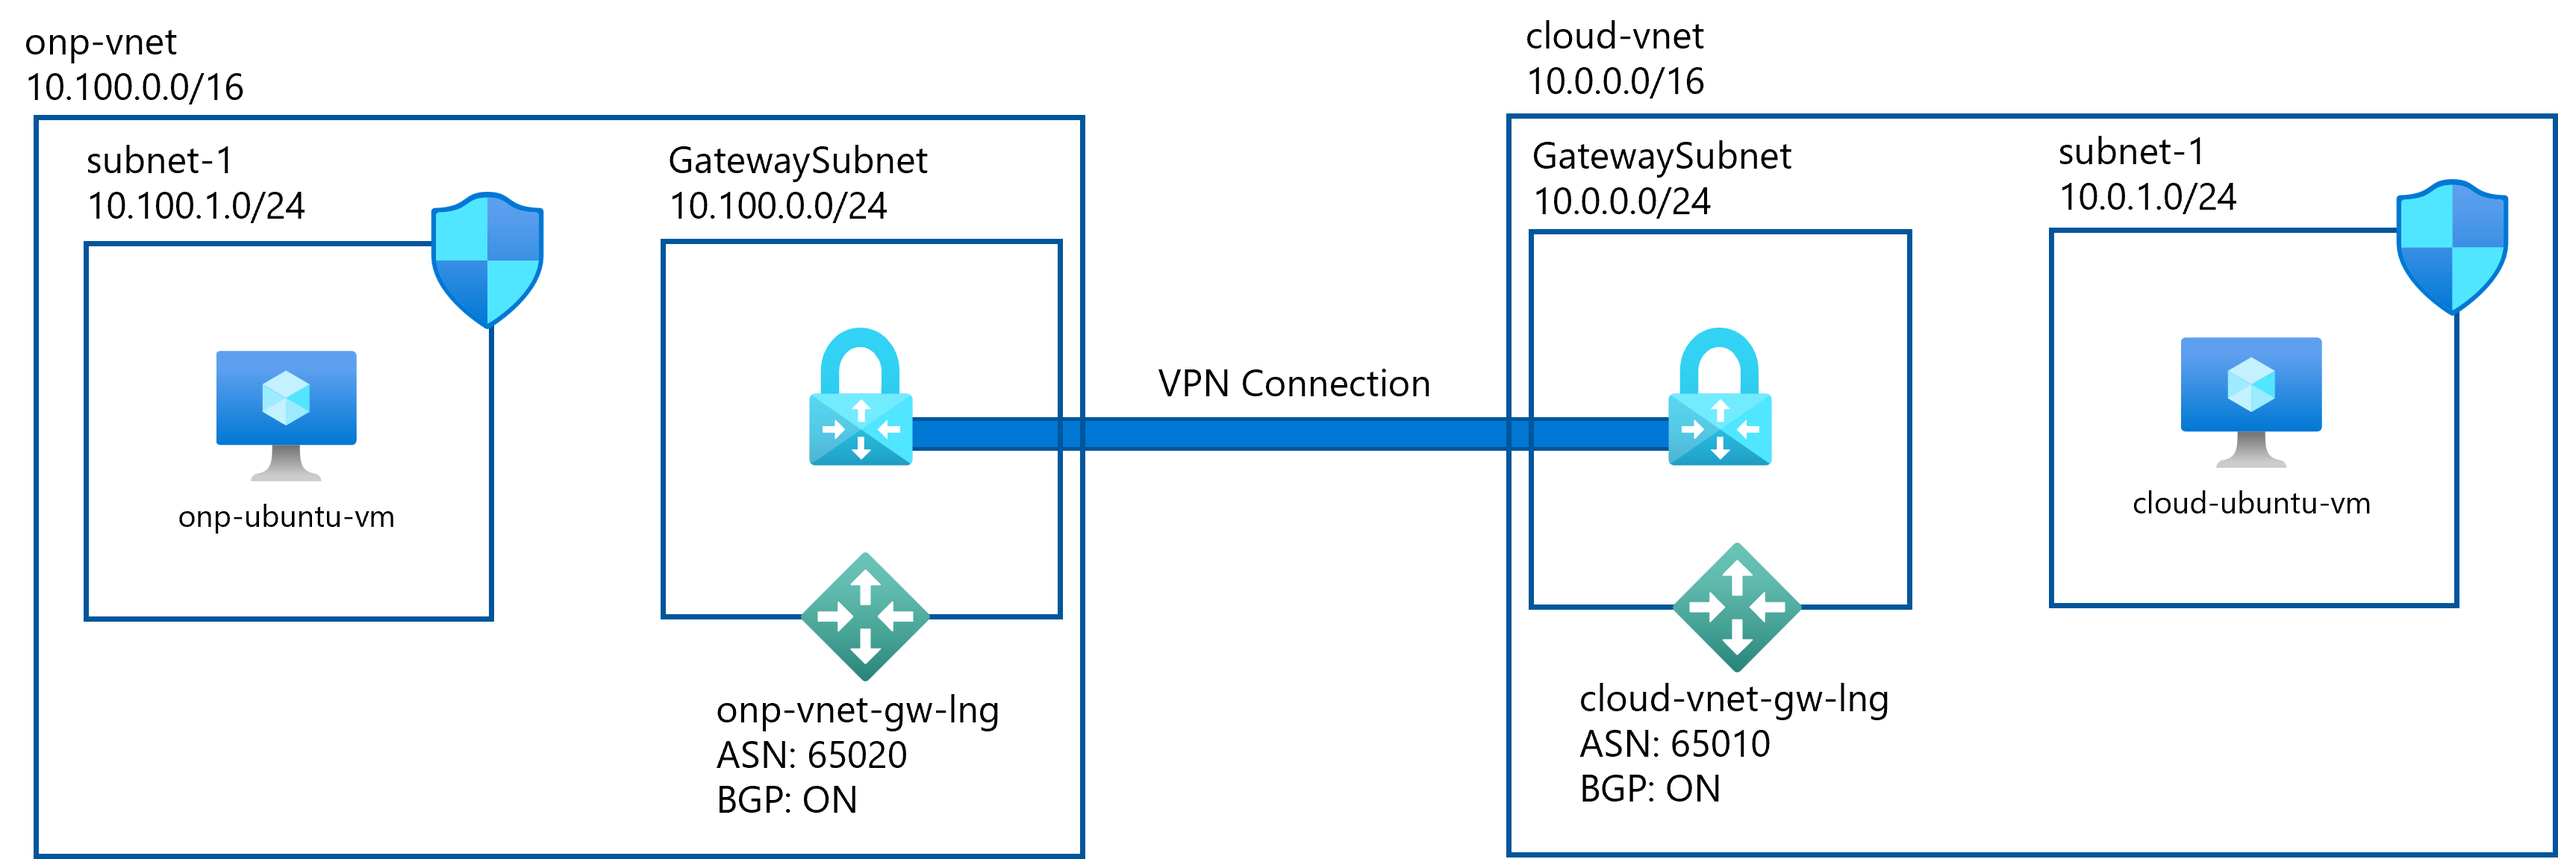
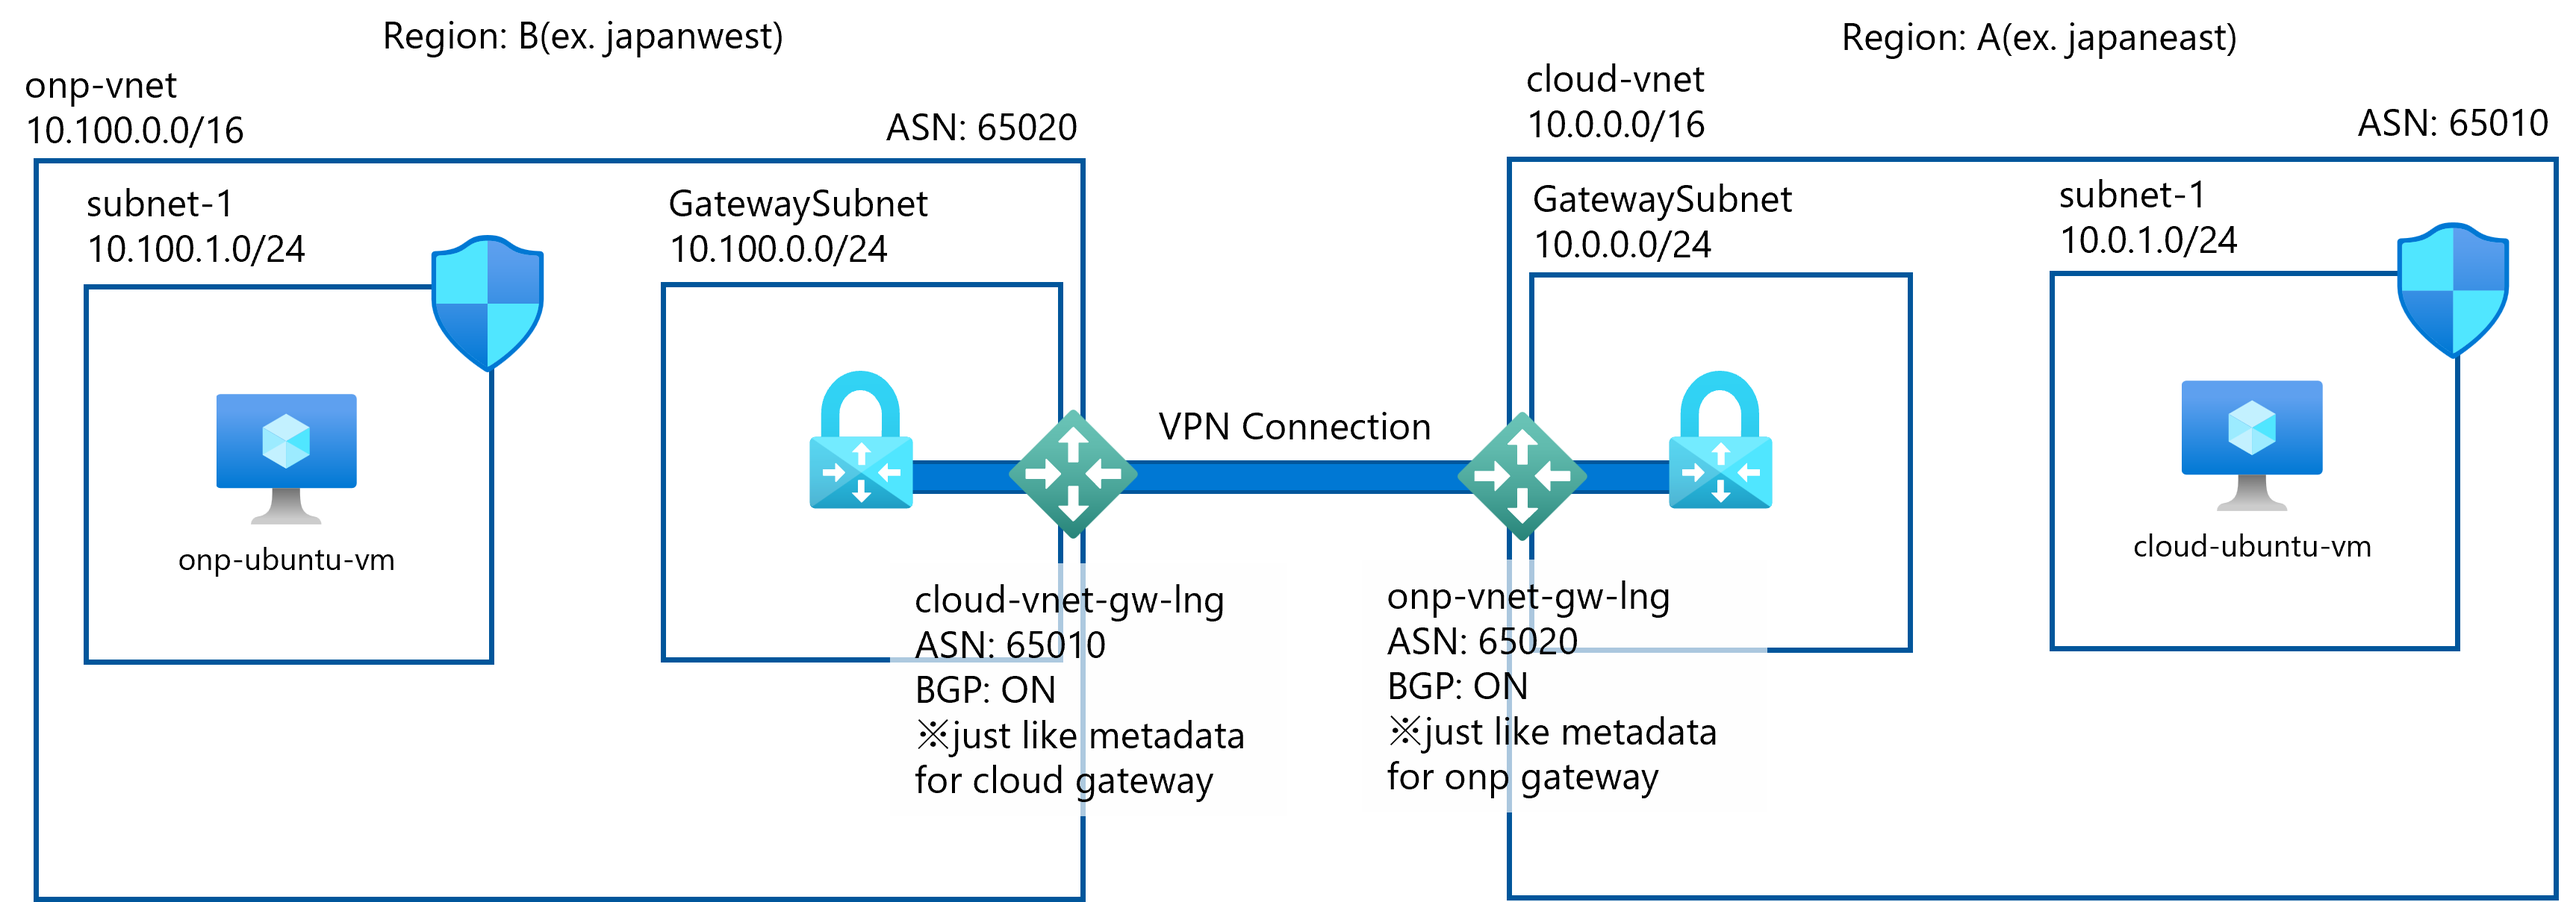
changed code to be able to choose region for onp/cloud like s2s vpn between jpe-jpw

diff --git a/README.md b/README.md
@@ -12,6 +12,7 @@ Next create the resource group for this depoloyment.
 ```
 $ az group create --name MyResourceGroup --location japaneast
 ```
+You can choose the both onp location and cloud location for testing `cross-regional S2SVPN with BGP` senario.
 
 Deploy main.bicep options:
 
@@ -28,11 +29,24 @@ This option, you have to fill the parameters in the prompt.
 ```
 $ az deployment group create --resource-group MyResourceGroup --template-file main.bicep
 
-location: xxxx
+locationSite1: xxxx
+locationSite2: xxxx
 vmAdminUserName: xxxx
 vmAdminPassword: xxxx
 principalId: xxxx
 ```
+
+# Notes
+If you want to try ping test between onp-vm and cloud-vm, you need to access either vm. So you must create public ip resource and attach it to the nic. After connect the vm, try ping.
+```
+azureuser@vm-ubuntu-onp$ ping 10.0.1.4
+PING 10.0.1.4 (10.0.1.4) 56(84) bytes of data.
+64 bytes from 10.0.1.4: icmp_seq=1 ttl=64 time=12.7 ms
+64 bytes from 10.0.1.4: icmp_seq=2 ttl=64 time=12.1 ms
+64 bytes from 10.0.1.4: icmp_seq=3 ttl=64 time=12.1 ms
+```
+- As you can see effective routes, the VM recieves the routes for the peer VNet.
+![](./img/effectiveroutes.png) 
 
 ## For more information
 Please refer this article.
